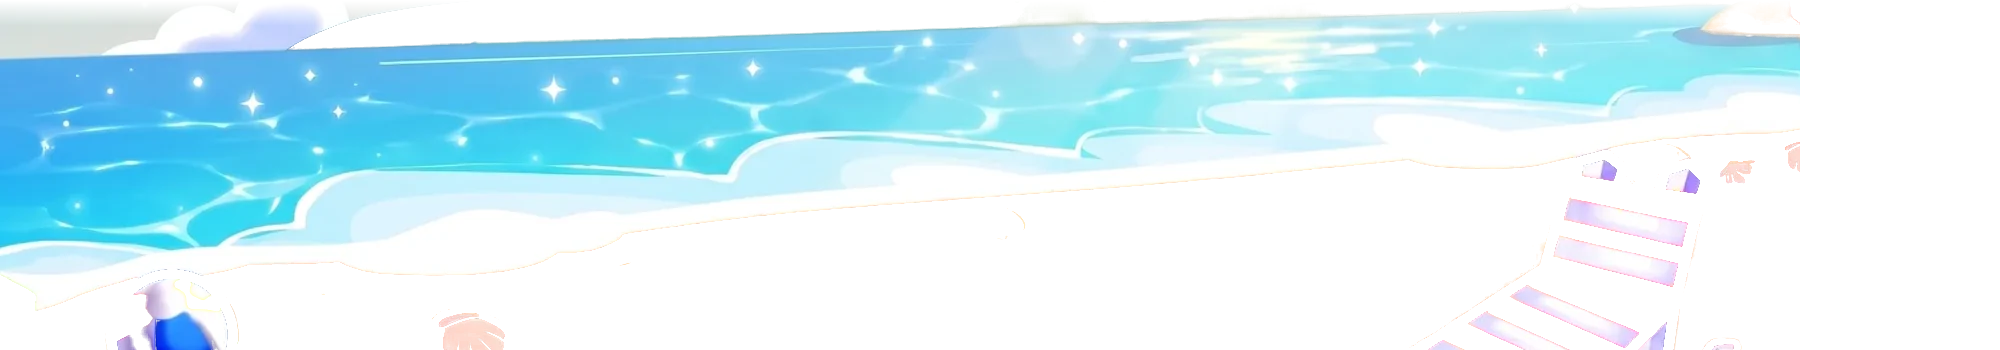
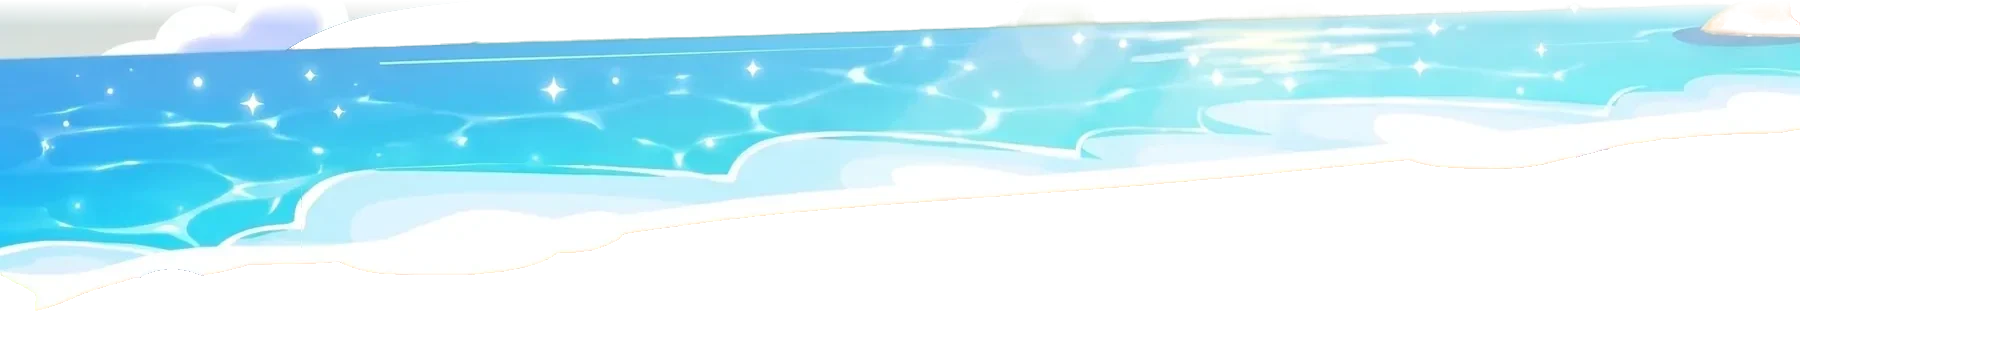
Waves no longer warp the ball, chair and shells; palms stand behind the bush and chair

diff --git a/index.html b/index.html
@@ -1216,8 +1216,19 @@ img.mg.p-bail{animation:bail .9s ease-in forwards}
 
 @media (prefers-reduced-motion:reduce){.sc-palm .crown,.sc-crab,.sc-crab img,.sc-water .wv{animation:none}}
 
+/* the bush in the bottom-left corner is cut out of the plate and drawn again over the palms, so the left palm's trunk
+   stands behind its leaves, as in the painting */
+.sc-bush{position:absolute;left:0;top:640px;width:900px;height:485px;transition:opacity 1.2s;pointer-events:none}
+.sc-bush.sunset{opacity:0}
+.slot:has(.stage.bonus) .sc-bush.sunset{opacity:1}
+.slot:has(.stage.bonus) .sc-bush.day{opacity:0}
+.sc-chair{position:absolute;left:1370px;top:540px;width:330px;height:370px;transition:opacity 1.2s;pointer-events:none}
+.sc-chair.sunset{opacity:0}
+.slot:has(.stage.bonus) .sc-chair.sunset{opacity:1}
+.slot:has(.stage.bonus) .sc-chair.day{opacity:0}
+
 </style>
-<script>window.MANGO_IMG_V = {"bg-day":"d919a75b","bg-sunset":"4de74376","buy-plank":"602240fd","frame-driftwood":"56b4cd35","H1":"02610a3c","H2":"9986ec72","H3":"dd03fec8","H4":"16055f06","L1":"79847f20","L2":"deade74a","L3":"dabb402b","L4":"ec24535d","L5":"ad8186b4","S1":"f0935078","sc-crab":"8c270de0","sc-dolphin":"3b0b90c2","sc-palmL-crown":"ba362223","sc-palmL-trunk":"cc023e4e","sc-palmL":"dcb46604","sc-palmR-crown":"1607ce0d","sc-palmR-trunk":"f0ea716a","sc-palmR":"037041cd","sc-plate-day":"6a3c3539","sc-plate-sunset":"9048935b","sc-splash":"fd32b9b1","sc-water-day":"5a4c116b","sc-water-sunset":"efa7bf7a","sc-whale":"6d2091dd","surf-tricks":"428d180b","W":"d1ec9fa7","wild-rider":"c2212150","wild-wave":"f24ca5f5","wood-panel":"3699864c"};</script>
+<script>window.MANGO_IMG_V = {"bg-day":"d919a75b","bg-sunset":"4de74376","buy-plank":"602240fd","frame-driftwood":"56b4cd35","H1":"02610a3c","H2":"9986ec72","H3":"dd03fec8","H4":"16055f06","L1":"79847f20","L2":"deade74a","L3":"dabb402b","L4":"ec24535d","L5":"ad8186b4","S1":"f0935078","sc-bush-day":"cbded6bf","sc-bush-sunset":"81a88854","sc-chair-day":"4ddd96b6","sc-chair-sunset":"31c834a6","sc-crab":"8c270de0","sc-dolphin":"3b0b90c2","sc-palmL-crown":"ba362223","sc-palmL-trunk":"cc023e4e","sc-palmL":"dcb46604","sc-palmR-crown":"1607ce0d","sc-palmR-trunk":"f0ea716a","sc-palmR":"037041cd","sc-plate-day":"6a3c3539","sc-plate-sunset":"9048935b","sc-splash":"fd32b9b1","sc-water-day":"099b00c1","sc-water-sunset":"9151dd61","sc-whale":"6d2091dd","surf-tricks":"428d180b","W":"d1ec9fa7","wild-rider":"c2212150","wild-wave":"f24ca5f5","wood-panel":"3699864c"};</script>
 <script>
 /*
  * Mango Surf audio - synthesized Web Audio module (play money learning project).
@@ -2902,6 +2913,7 @@ img.mg.p-bail{animation:bail .9s ease-in forwards}
         ${water('day')}${water('sunset')}
         <div class="sc-sea" style="left:0;top:0;width:2000px;height:${SC.sea.y}px"></div>
         ${palm('palmL', SC.palmL)}${palm('palmR', SC.palmR)}
+        <img class="sc-chair day" src="img/sc-chair-day.webp" alt=""><img class="sc-chair sunset" src="img/sc-chair-sunset.webp" alt=""><img class="sc-bush day" src="img/sc-bush-day.webp" alt=""><img class="sc-bush sunset" src="img/sc-bush-sunset.webp" alt="">
       </div>`;
     host.appendChild(box); host.classList.add('live');
     const world = box.firstElementChild, sea = box.querySelector('.sc-sea');
